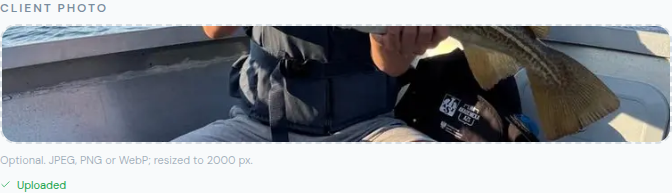
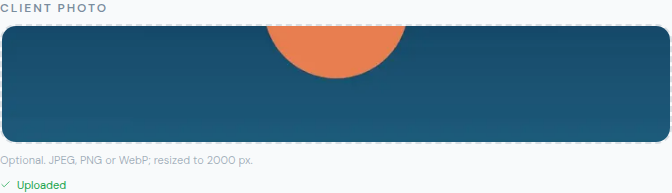
docs(FA-1.68): status done — accepted by tj on 0111809 (PR #159); screenshots 05/06 redone with a neutral test image

diff --git a/docs/tasks/FA-1.68.md b/docs/tasks/FA-1.68.md
@@ -2,7 +2,7 @@
 id: FA-1.68
 title: Opinie klientów — tabela `testimonials` (cytat, imię, kraj, ocena, zdjęcie, źródło Trustpilot/direct + link, zgoda, aktywna, kolejność) + admin `/admin/testimonials` (lista, dodaj/edytuj, upload do `guide-photos/testimonials/`, włącz/wyłącz)
 stage: 1
-status: review
+status: done
 difficulty: L
 model: opus
 model_approved:
@@ -83,3 +83,5 @@ git diff main...HEAD | grep -n '^+.*eslint-disable'               # puste
 - 2026-10-24 tj (bramka STOP 1 — SQL migracji): SQL zaakceptowany jak pokazany, łącznie z listą 8 krajów w `trip_country` i limitem 1000 znaków cytatu. D1 (a): stack lokalnie bez `storage-api` na liście `-x` (wg `docs/05` §9), przed startem `docker ps` — działa tylko stack fjordanglers. D2 (a): `photo_url` musi zaczynać się od naszego adresu Supabase Storage + `guide-photos/testimonials/` — pilnuje schemat zod w akcjach. D3 (a): `REVOKE` zostaje; kryterium RLS brzmi teraz „anon dostaje 42501 permission denied na odczyt i zapis”, jak `reviews`. Rozszerzenie testu synchronizacji krajów może wejść do PR migracyjnego.
 - 2026-10-24 tj (dowód uploadu zdjęcia): D4 (c) — bucket `guide-photos` zadeklarowany w `supabase/config.toml` (`[storage.buckets.guide-photos]`), nie w seedzie i nie ręcznie; ustawienia skopiowane z prod odczytem read-only (public, 52428800 B, jpeg/jpg/png/webp); nigdy `supabase config push` ani nic, co stosuje config do zdalnego projektu. D5 (a) — tymczasowa, niecommitowana zmiana `next.config.ts` (host lokalnego Storage) na czas zrzutu, cofnięta przed commitem; w raporcie pusty `git diff next.config.ts`.
 - 2026-10-24 (agent): PR migracyjny #158 („db(FA-1.68): testimonials table — migration only”) zmergowany przez tj, `migrate-prod` uruchomiony i zatwierdzony przez tj; odczyt prod read-only: `SELECT count(*) FROM public.testimonials` → 0, migracja `20261012000000 add_testimonials` na liście. PR główny: #159. Status `review` — czeka na review tj, merge robi tj.
+- 2026-10-24 tj: odebrane na 0111809 (PR #159) — wszystkie kryteria udowodnione: reguły bazy i RLS na czerwono, getTestimonial z 3 red proofs, panel ze zrzutami, prod count 0 po migrate-prod (#158), CI zielone.
+- 2026-10-24 (agent, przed zamknięciem, na prośbę tj): zdjęcie na zrzutach 05/06 pochodziło z `public/about/gallery-4.jpg` — plik w repo od 2026-04-24 (commit tj `8bcf47c`), dziś nieużywany na żadnej stronie; kto jest na zdjęciu, nie da się ustalić z repo. Ponieważ nie można wykluczyć prawdziwego klienta, oba zrzuty zastąpiono neutralnym obrazem testowym („TEST IMAGE — FA-1.68”, wygenerowany), wgranym tą samą ścieżką (`POST 200 …/guide-photos/testimonials/0732bb46-….jpg`); `next.config.ts` znów cofnięty (pusty `git diff`). Stare zrzuty zostają w historii gałęzi (commit `a5ba67e`), a sam plik `gallery-4.jpg` jest w publicznym repo od kwietnia.

diff --git a/docs/tasks/INDEX.md b/docs/tasks/INDEX.md
@@ -100,7 +100,7 @@ Branch `stage-1`, Supabase preview branch, **one `db push` at the end** — `REB
 | FA-1.65 | Hub kraju v2 — `getDestinationHub()` w warstwie danych, `ExpCard` wyniesiony, szablon: hero z linią dowodu, sezon, gatunki, karty z przewodnikiem, FAQ, recenzje, 3 kroki, inne kraje, kontakt | L | opus | done | — |
 | FA-1.66 | Hub kraju — mapa z pinami lokacji (Leaflet jak `/trips`) + pomiar `hub_view` / `section_view` / `hub_card_click` | M | sonnet | done | FA-1.60, FA-1.65 |
 | FA-1.67 | Worktree jedną komendą — `scripts/dev-env.sh` (env z lokalnego stacku + atrapy + flaga v2), `scripts/dev-preflight.sh` (obce stacki, dysk) przed `next dev`, §9 dla PC/WSL2 | M | sonnet | todo | — |
-| FA-1.68 | Opinie klientów — tabela `testimonials` (źródło Trustpilot/direct + link, zgoda, kolejność) + admin `/admin/testimonials` z uploadem do `guide-photos/testimonials/` | L | opus | review | — |
+| FA-1.68 | Opinie klientów — tabela `testimonials` (źródło Trustpilot/direct + link, zgoda, kolejność) + admin `/admin/testimonials` z uploadem do `guide-photos/testimonials/` | L | opus | done | — |
 | FA-1.69 | Baner z jedną opinią — strona główna + zastępstwo za pusty S10 na v2 i hubie (kraj strony → ogólna; „Read on Trustpilot ›”) | M | sonnet | todo | FA-1.68 |
 | FA-1.70 | Treści opinii — zgody klientów, warunki Trustpilota, 3–5 opinii w adminie na prod; robi tj | S | — (człowiek) | todo | FA-1.68 |
 | FA-1.18 | Środowisko dev — projekt Supabase `fjordanglers-dev` (Free) z migracjami i seedem; Vercel Preview na dev, tylko `sk_test` i flagi fake | M | sonnet | done | FA-1.75 |
